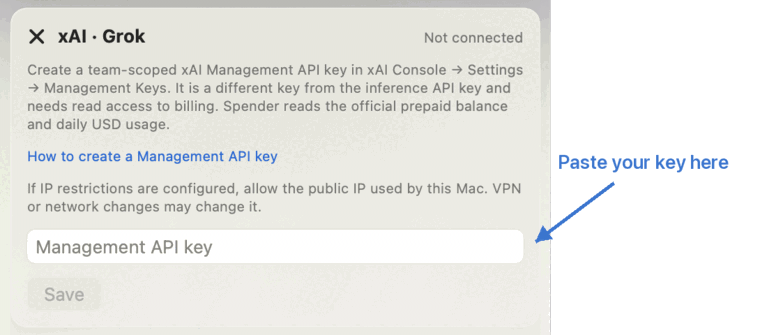
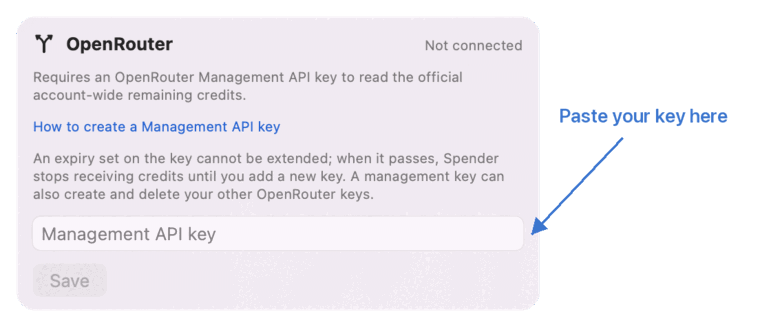
test: capture the app window, not the whole screen
XCUIApplication.screenshot() on macOS records the entire display, so
every test attachment carried whatever else was open — once a video
call showing another person's shared screen, once a browser with its
bookmarks bar. These captures feed the README, which is public.

Attachments now come from the panel itself. Two wrong turns on the way
are recorded in the helper: the "menu.panel" identifier matches twice,
because SwiftUI passes it down to children, and taking the first match
produced 14x24-pixel images while every test still passed. The panel
reaches accessibility as a dialog; capturing that gives 840px-wide
frames, exactly the 420pt panel at 2x. The glass is translucent, so
what lies behind still tints it — the bounds are what this fixes.

The README key screenshot is recut from such a capture along the card's
own rounded contour. The previous crop ran through the panel's glass
and, on GitHub's dark theme, read as a hard-edged frame around the card.

The author link moves to the foot of the README, where people look for
who made something; the header stays about the product.

Changed region(s): [[0.0, 0.0, 0.9684, 1.0], [0.0605, 0.8257, 0.1211, 0.9174]]

diff --git a/LLMSpendMonitorUITests/MenuBarLifecycleUITests.swift b/LLMSpendMonitorUITests/MenuBarLifecycleUITests.swift
@@ -31,7 +31,7 @@ final class MenuBarLifecycleUITests: XCTestCase {
         XCTAssertTrue(notificationsToggle.waitForExistence(timeout: 3))
         app.buttons["Close"].click()
 
-        let screenshot = XCTAttachment(screenshot: app.screenshot())
+        let screenshot = XCTAttachment(screenshot: app.windowScreenshot)
         screenshot.name = "Startup and notification settings"
         screenshot.lifetime = .keepAlways
         add(screenshot)
@@ -132,7 +132,7 @@ final class MenuBarLifecycleUITests: XCTestCase {
                 .waitForExistence(timeout: 3)
         )
 
-        let screenshot = XCTAttachment(screenshot: app.screenshot())
+        let screenshot = XCTAttachment(screenshot: app.windowScreenshot)
         screenshot.name = "Thirty-day spend provenance and trend"
         screenshot.lifetime = .keepAlways
         add(screenshot)
@@ -165,7 +165,7 @@ final class MenuBarLifecycleUITests: XCTestCase {
 
         kimiToggle.click()
 
-        let customizationScreenshot = XCTAttachment(screenshot: app.screenshot())
+        let customizationScreenshot = XCTAttachment(screenshot: app.windowScreenshot)
         customizationScreenshot.name = "Provider visibility options"
         customizationScreenshot.lifetime = .keepAlways
         add(customizationScreenshot)
@@ -191,7 +191,7 @@ final class MenuBarLifecycleUITests: XCTestCase {
                 .waitForExistence(timeout: 3)
         )
 
-        let screenshot = XCTAttachment(screenshot: app.screenshot())
+        let screenshot = XCTAttachment(screenshot: app.windowScreenshot)
         screenshot.name = "Optional available provider"
         screenshot.lifetime = .keepAlways
         add(screenshot)
@@ -251,4 +251,26 @@ final class MenuBarLifecycleUITests: XCTestCase {
         return app
     }
 
+}
+
+extension XCUIApplication {
+    /// A capture of Spender's own window rather than the whole display.
+    ///
+    /// `XCUIApplication.screenshot()` on macOS records the entire screen, so
+    /// every attachment carried whatever else was open — once a video call with
+    /// another person's shared screen, once a browser with its bookmarks. These
+    /// captures feed the README, so they must hold the app and nothing else.
+    /// The panel is translucent, so its own glass still shows what sits behind
+    /// it; the bounds are what this guarantees.
+    var windowScreenshot: XCUIScreenshot {
+        // The menu bar panel is an NSPanel and reaches accessibility as a dialog.
+        // Querying it by its "menu.panel" identifier does not work: SwiftUI hands
+        // the identifier down to descendants too, and the first match turned out
+        // to be a 14x24 child rather than the panel.
+        let panel = dialogs.firstMatch
+        if panel.exists { return panel.screenshot() }
+        let window = windows.firstMatch
+        if window.exists { return window.screenshot() }
+        return screenshot()
+    }
 }

diff --git a/LLMSpendMonitorUITests/ConnectionFlowUITests.swift b/LLMSpendMonitorUITests/ConnectionFlowUITests.swift
@@ -67,7 +67,7 @@ final class ConnectionFlowUITests: XCTestCase {
         // the error message, the disabled Save, the untouched stored key — is covered
         // deterministically by ConnectionViewModelTests.
 
-        let screenshot = XCTAttachment(screenshot: app.screenshot())
+        let screenshot = XCTAttachment(screenshot: app.windowScreenshot)
         screenshot.name = "Connections list"
         screenshot.lifetime = .keepAlways
         add(screenshot)

diff --git a/README.md b/README.md
@@ -40,7 +40,7 @@ Click it to open the panel above: the total, a bar showing which providers it is
 made of, then one card per connection, largest spender first. Everything below is
 one click deeper.
 
-<img src="docs/images/connections-key.png" width="560" alt="The xAI card in Connections, with an arrow pointing at the empty key field and the label Paste your key here">
+<img src="docs/images/connections-key.png" width="560" alt="The OpenRouter card in Connections, with an arrow pointing at the empty key field and the label Paste your key here">
 
 **Connecting a provider.** Open **Options → Connections**, find the provider and
 paste its key into the field. Some providers need a key that is not their ordinary
@@ -162,3 +162,9 @@ LLMSpendMonitor/
 ```
 
 Provider API notes and contract validation material live in [`docs/research`](docs/research).
+
+---
+
+<p align="center">
+  Made by <a href="https://github.com/bestmark1">bestmark1</a> · <a href="https://x.com/thesignalnow">X</a>
+</p>
